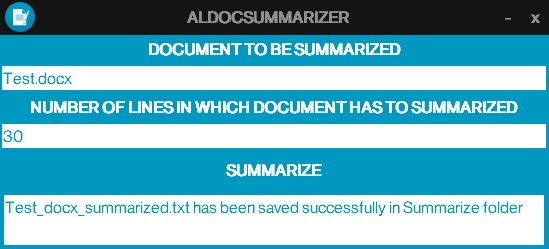
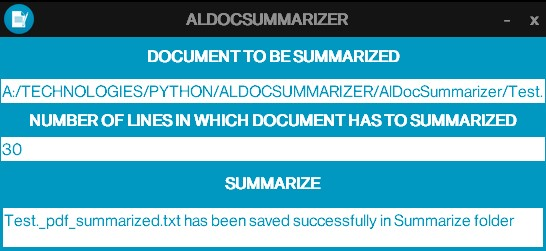
AlDocSummarizer

diff --git a/AlDocSummarizer.py b/AlDocSummarizer.py
@@ -6,7 +6,7 @@ nltk.download('punkt')
 nltk.download('stopwords')
 import re, os
 from tkinter import *
-from tkinter import font
+from tkinter import font, filedialog
 from PIL import ImageTk, Image
 
 cwd = os.path.dirname(os.path.realpath(__file__))
@@ -35,9 +35,14 @@ class AlDocSummarizer():
             root.overrideredirect(0)
             root.iconify()
 
+        def openDoc():
+            fileTextEntry.delete(1.0, END)
+            filename = filedialog.askopenfilename(filetypes =[('Document Files', '*.docx'), ('PDF Files', '*.pdf, *.PDF')])
+            fileTextEntry.insert(1.0, filename)
+
         def summarize():
-            filename = fileText.get()
-            filepath = os.path.join(cwd+'\\AlDocSummarizer', filename)
+            filepath = fileTextEntry.get("1.0", END)
+            filepath = filepath.replace('/', '\\')[:-1]
             if os.path.exists(filepath):
                 articleText = ''	
                 extension = os.path.splitext(filepath)[1]
@@ -83,8 +88,9 @@ class AlDocSummarizer():
                                         sentenceScores[sent] += wordFrequencies[word]
 
                     summarySentences = heapq.nlargest(int(lines.get()), sentenceScores, key=sentenceScores.get)
+                    summaryFileName = os.path.basename(filepath)
+                    summaryFileName = summaryFileName.replace(extension,'')
                     extension = extension.replace('.','')
-                    summaryFileName = filename.replace(os.path.splitext(filename)[1],'')
                     summaryFileName = f'{summaryFileName}_{extension}_summarized.txt'
                     summaryFilePath = os.path.join(cwd+'\\AlDocSummarizer\\Summarize', summaryFileName)
                     summaryFile = open(summaryFilePath, "w")
@@ -125,11 +131,11 @@ class AlDocSummarizer():
         titleBar.pack(fill=X)
 
         #file widget
-        fileText = Label(root, text="DOCUMENT TO BE SUMMARIZED")
-        fileText.pack()
-        fileText.config(bg=color,fg="white",font=appHighlightFont)
-        fileText= Entry(root, bg="white", fg=color, highlightbackground=color, highlightcolor=color, highlightthickness=3, bd=0,font=textHighlightFont)
+        fileText = Button(root, text="DOCUMENT TO BE SUMMARIZED", borderwidth=0, highlightthickness=3, command=openDoc)
         fileText.pack(fill=X)
+        fileText.config(bg=color,fg="white",font=appHighlightFont)
+        fileTextEntry = Text(root, bg="white", fg=color, highlightbackground=color, highlightcolor=color, highlightthickness=3, bd=0,font=textHighlightFont, height=1)
+        fileTextEntry.pack(fill=BOTH, expand=True)
 
         #lines widget
         lines = Label(root, text="NUMBER OF LINES IN WHICH DOCUMENT HAS TO SUMMARIZED")

diff --git a/README.md b/README.md
@@ -18,5 +18,6 @@ pip install Pillow
 
 ![](/CaptureDocSummarizer_2.jpg)
 
-1. Provide the input as given in above image.
+1. Click on DOCUMENT TO BE SUMMARIZED button and select the .docx or .pdf file.
+2. Provide number of lines in which you want to summarize the document.
 2. Then, click on SUMMARIZE button.
